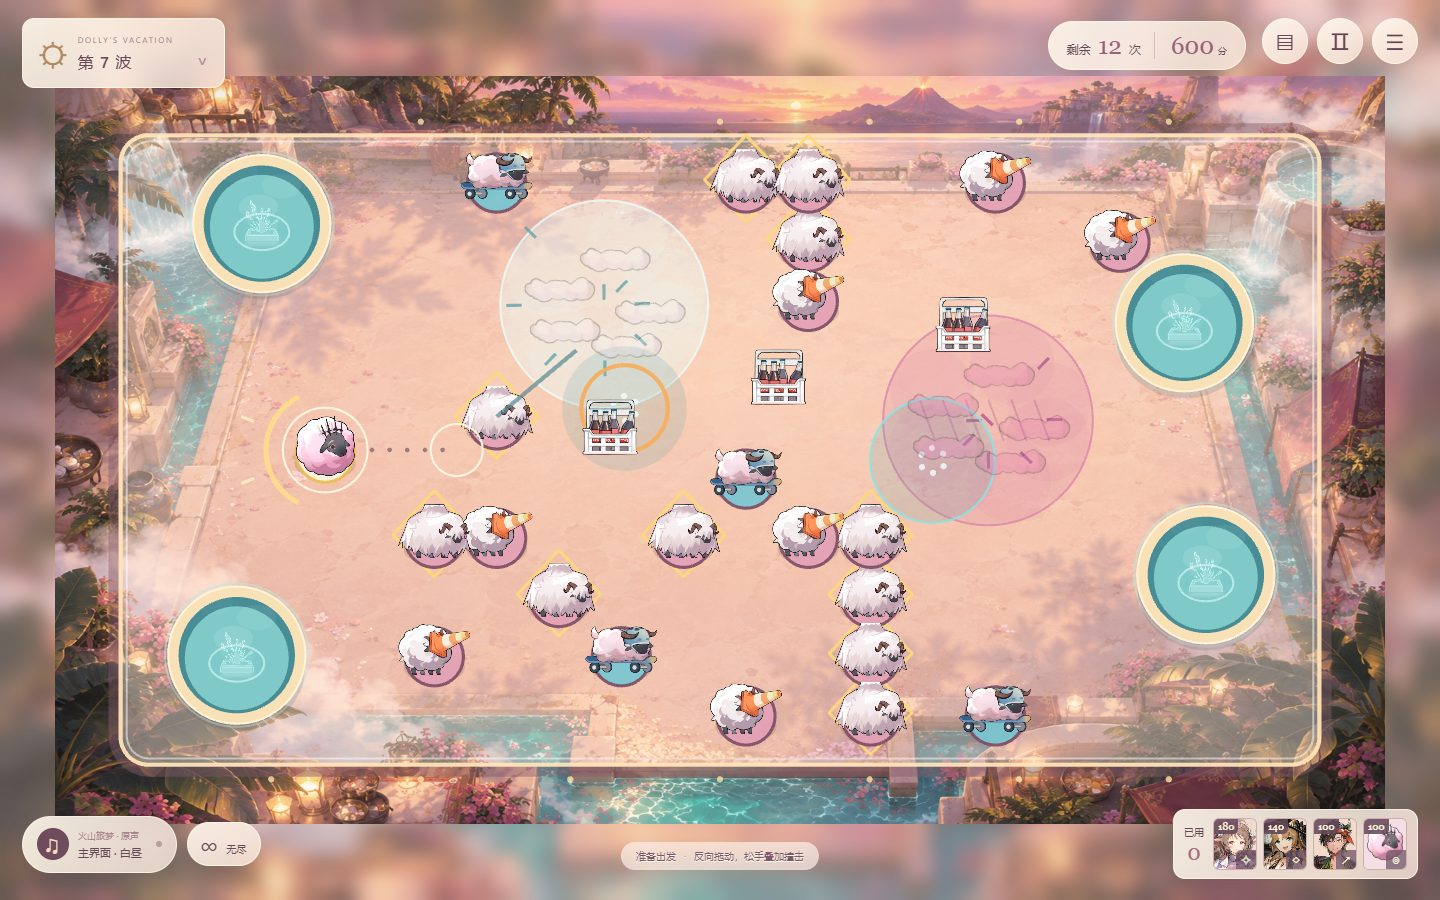
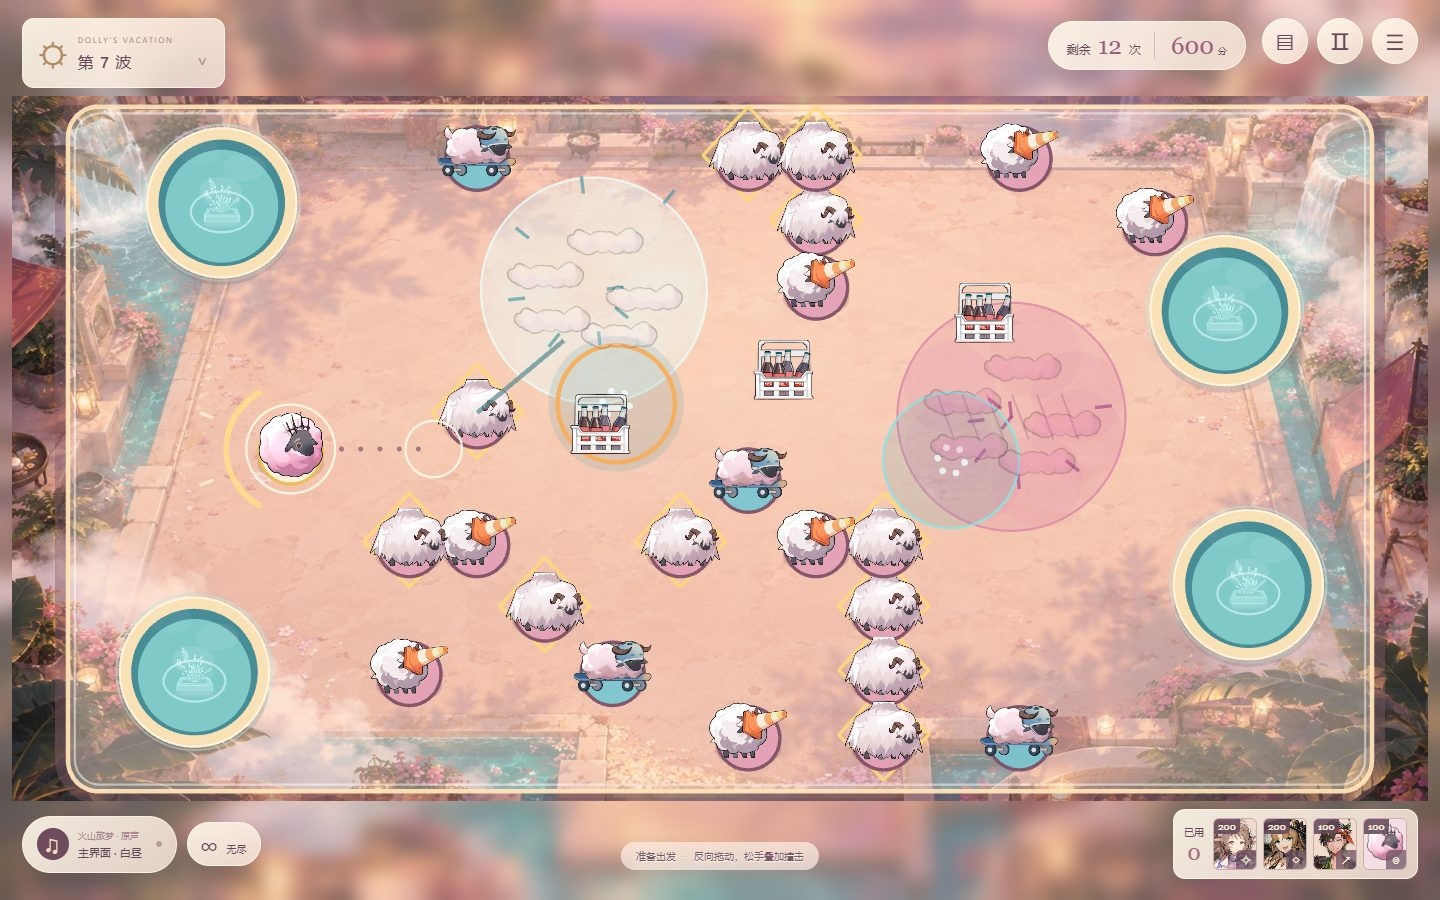
Document global rankings and updated holiday rules

diff --git a/README.md b/README.md
@@ -18,7 +18,7 @@
 ## 无尽假期
 
 - 初始 **12 次撞击、600 积分、10 只小羊**。每波增加 2 只小羊，最多 28 只。
-- 清场补至至少 12 次，再奖励 2 次，最多保留 18 次；另奖励 **500 + 当前波次 × 100** 分，下一波自动开始。
+- 每次清场补充 **5 次**，最多保留 **15 次**；另奖励 **250 + 当前波次 × 50** 分，下一波自动开始。
 - 每波重新布置温泉、水汽、汽水和喷口；小羊初始位置避开洋红与纯白水汽、温泉和汽水。
 - 第 2 波加入巡逻移动温泉，第 3 波加入定时喷发的间歇泉，第 4 波起随机生成临时喷口，第 7 波起增加护罩羊密度。
 - 连入、反弹、爆破、水渠、引力、斥力、喷发与长距离入泉均可组合加分。最高积分和最高完成波次保存在当前浏览器。
@@ -26,12 +26,12 @@
 
 ## 援助与机制
 
-四位援助可以混合使用，放置后立即生效。闯关模式援助免费且不限使用次数；无尽模式按下表扣除积分，按钮显示价格。
+多利停稳后才能放置援助，其他小羊仍在运动时可以部署。四位援助可以混合使用；闯关免费且不限次数。无尽模式的基础价如下，每位援助按各自累计使用次数独立涨价：基础价的 1、2、3 倍依次递增。例如汽水为 200、400、600 分。次数跨波保留，重新开始后重置，按钮显示下一次价格。
 
-| 援助 | 效果 | 无尽花费 |
+| 援助 | 效果 | 无尽基础价 |
 | --- | --- | ---: |
-| 纯烬艾雅法拉 | 点击空地部署连锁爆弹汽水；冲击波炸飞附近羊球并引爆相邻汽水 | 180 分 |
-| 琳琅诗怀雅 | 拖动绘制高压金币水渠，球沿绘制方向加速并修正路线 | 140 分 |
+| 纯烬艾雅法拉 | 点击空地部署连锁爆弹汽水；冲击波炸飞附近羊球并引爆相邻汽水 | 200 分 |
+| 琳琅诗怀雅 | 拖动绘制高压金币水渠，球沿绘制方向加速并修正路线 | 200 分 |
 | 苍苔 | 点击放置纯白水汽，持续向外推开球 | 100 分 |
 | 多利 | 点击放置洋红水汽，持续把羊群吸向中心 | 100 分 |
 
@@ -39,11 +39,19 @@
 
 温泉“淘气包”无额外特性；温泉“流浪汉”阻力较低、滑行更远；“大个子”的护罩完整时固定不动。**第一次撞击反弹并破罩，第二次命中才能推动大个子**；一轮连锁爆炸只破罩，不会立即推走它。
 
-入泉连击伴随粒子和升调短音效；护罩破碎、爆弹引爆及长途反弹入泉触发约 0.2 秒慢镜头与轻微震动。可在设置中关闭动态效果或短音效。5 首活动原版主界面与战斗 BGM 可自由切换，支持随机播放、顺序播放和单曲循环。每首完整下载后才开始播放，加载时显示进度；暂停、调整音量与切换播放模式不会重置当前进度。
+入泉连击伴随粒子和升调短音效；护罩破碎、爆弹引爆及长途反弹入泉触发约 0.2 秒慢镜头与轻微震动。可在设置中关闭动态效果或短音效。5 首活动原版主界面与战斗 BGM 可自由切换，支持随机播放、顺序播放和单曲循环。首曲在进入网页时提前下载；画面与首曲就绪后，点击“开始假期”即可播放。网络较慢时可选择静音进入。每首完整下载后才开始播放，加载时显示进度；暂停、调整音量与切换播放模式不会重置当前进度。
+
+## 全球排行榜
+
+无尽结束后可自愿提交玩家 ID 与本局最终积分，留空默认为“未知玩家”。积分榜和波次榜各展示前 **1000** 名，每页 50 名；提交后立即显示自己的积分、完成波数与两个榜单名次，榜外玩家也能查看自己的位置。
+
+每位玩家的两项最佳纪录分别保留。积分榜先比较积分，再比较完成波数；波次榜先比较波数，再比较积分；仍相同时按达成时间排序。昵称允许重名，同一浏览器保留匿名身份，换设备或清除网站数据后成为新玩家。仅选择提交后公开昵称与成绩，无需注册玩家账号。
+
+菜单与无尽模式入口均可查看排行榜。网络断开不影响继续游戏；联网记录建立失败的对局会明确提示，成绩不会伪装成全球排名。榜单属于休闲挑战记录，客户端成绩校验不能完全防止作弊。
 
 ## 闯关与存档
 
-16 关重排为 8 组“教学＋实战”：撞击、反弹滑行、护罩、连锁爆弹、引力、斥力、水渠与动态场地。每关开场暂停，点击屏幕逐步阅读提示；第一关另有按钮教学，菜单可随时重看。闯关与无尽中多利落泉均不额外扣次数。原版关卡纪录单独归档，已解锁进度保留，新课程重新记录星级。无尽记录与闯关星星分别保存，新开无尽不会清除星星。当前无尽对局不跨刷新恢复。
+16 关重排为 8 组“教学＋实战”：撞击、反弹滑行、护罩、连锁爆弹、引力、斥力、水渠与动态场地。每关开场暂停，点击屏幕逐步阅读提示；第一关另有按钮教学，菜单可随时重看。闯关与无尽中多利落泉均不额外扣次数。原版关卡纪录单独归档，已解锁进度保留，新课程重新记录星级。无尽记录与闯关星星分别保存，新开无尽不会清除星星。当前无尽对局不跨刷新恢复。v0.7 调整了积分规则，旧版无尽最佳纪录单独归档，本赛季重新记录。
 
 图鉴收录全部小羊与场地效果，详细说明受力方向、护罩、喷发、花式积分和冷却规则。上述物理特性与技能均属于本同人游戏的玩法改编。
 
